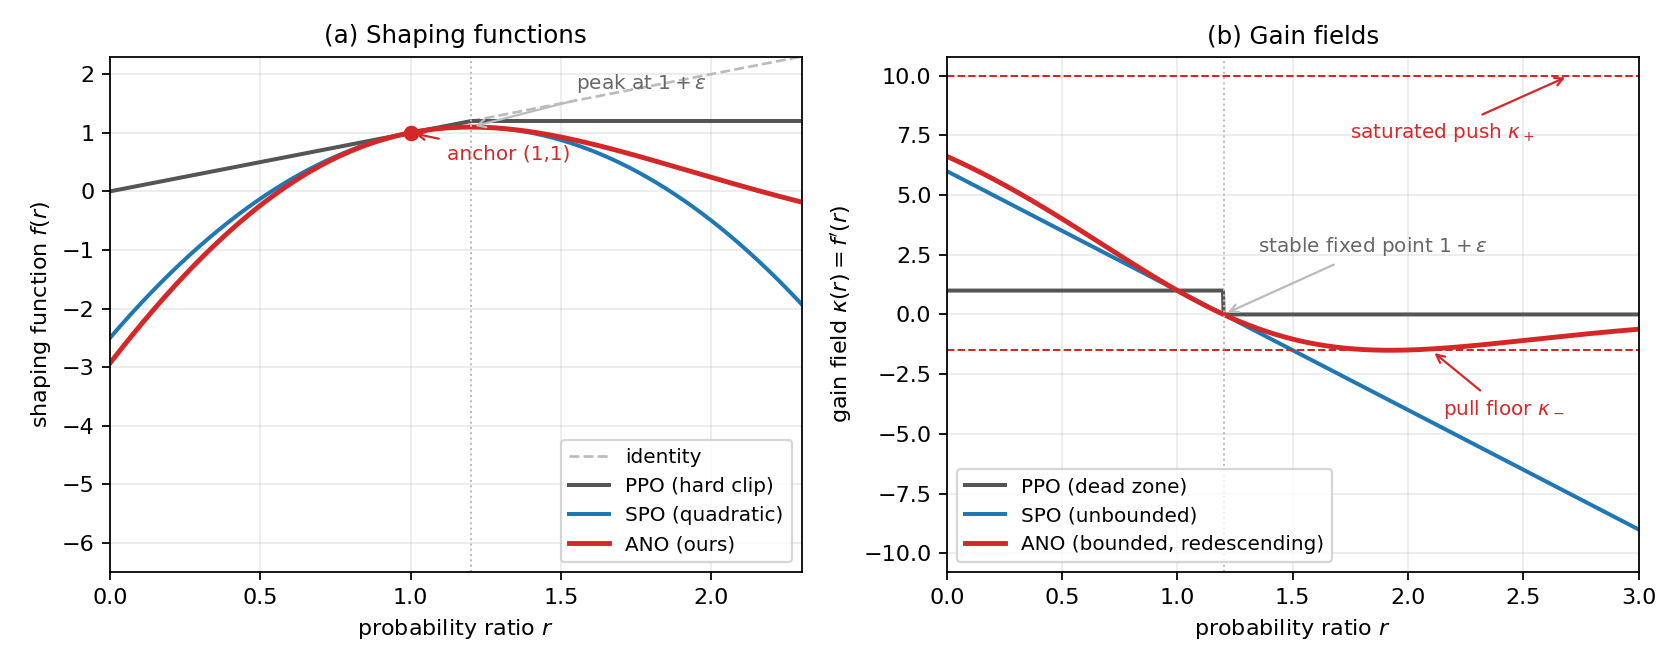
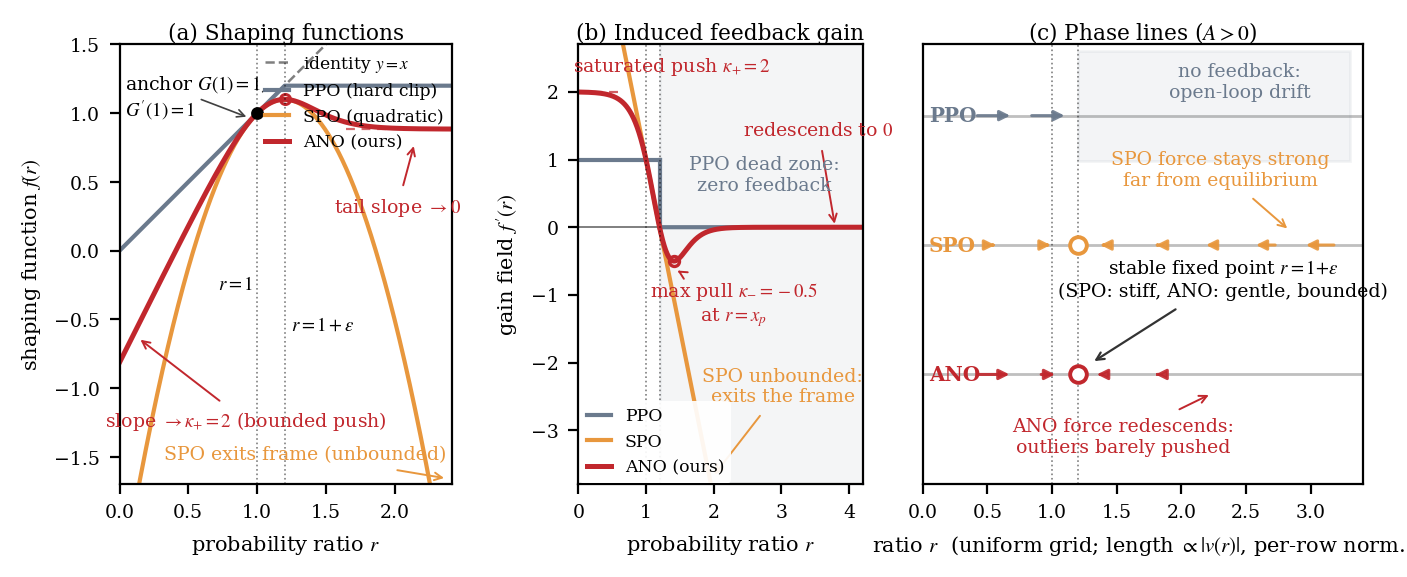
Redraw README figure in the paper's Figure 1 style
- 3-panel geometry/dynamics figure (shaping functions, induced feedback gain,
  phase lines) adapted from the paper's plotting code, display config
  (eps, kappa_plus, kappa_minus) = (0.2, 2, -0.5) as in the paper
- kernels imported from the shipped ano/g_shaping.py reference; regeneration
  doubles as a build-time sanity check (R1-R5 printed)

diff --git a/assets/plot_kernel.py b/assets/plot_kernel.py
@@ -1,7 +1,24 @@
-"""Generate the README figure: shaping functions and gain fields of
-PPO (hard clip), SPO (quadratic penalty), and ANO (this work).
+"""Generate the README figure: geometry and induced dynamics of the surrogate
+objectives (PPO hard clip, SPO quadratic penalty, ANO), matching Figure 1 of
+the paper.
 
-Runs against the reference kernel in ``ano/g_shaping.py``; reproduces with:
+The kernels are imported from the shipped reference implementation
+(``ano/g_shaping.py``); the two baseline shaping functions are one-liners.
+Every panel uses EQUAL x/y scaling (axes boxes sized manually so the data
+aspect matches exactly): slopes are visually honest -- the identity is a true
+45-degree reference and ANO is visibly tangent to it at r=1 in panel (a).
+
+Display config: (eps, kappa_plus, kappa_minus) = (0.2, 2, -0.5) -- the same
+display config as the paper's Figure 1 (a real grid point), chosen over the
+paper-recommended (0.2, 10, -1.5) because the gentler slopes keep the GLOBAL
+shape of all three objectives inside one window.
+
+  (a) Shaping functions, r in [0, 2.42], y in [-1.7, 1.5]: ANO's full S-shape.
+  (b) Gain fields, r in [0, 4.2], y in [-3.8, 2.7]: bounded vs unbounded.
+  (c) Ratio-space phase lines (A > 0): arrow direction = sign of the induced
+      velocity, length proportional to |v(r)| (per-row normalized).
+
+Reproduce with:
 
     python assets/plot_kernel.py
 """
@@ -9,83 +26,236 @@ Runs against the reference kernel in ``ano/g_shaping.py``; reproduces with:
 import pathlib
 import sys
 
+import matplotlib
+
+matplotlib.use("Agg")
 import matplotlib.pyplot as plt
 import numpy as np
 
 sys.path.insert(0, str(pathlib.Path(__file__).resolve().parent.parent))
-from ano.g_shaping import gain, solve_constants, shaping  # noqa: E402
+from ano.g_shaping import gain, shaping, solve_constants  # noqa: E402
 
-EPS = 0.2                    # trust-region boundary
-KAPPA_PLUS, KAPPA_MINUS = 10.0, -1.5   # paper-recommended knobs
+# ---------------- display config (paper Figure 1 display config) --------------
+EPS = 0.2
+KAPPA_PLUS, KAPPA_MINUS = 2.0, -0.5
+NU, A_, X0 = solve_constants(EPS, KAPPA_PLUS, KAPPA_MINUS)
 
-# --- competing shaping functions (paper Section 3.1) -------------------------
-def f_ppo(r):
-    return np.minimum(r, 1.0 + EPS)
+# ---------------- kernels (ANO from the shipped reference module) -------------
+def ano_Gp(x):
+    """G'(x), the gain field of the ANO shaping function."""
+    return gain(x, NU, A_, X0, KAPPA_PLUS)
 
-def f_spo(r):
-    return -(r - 1.0 - EPS) ** 2 / (2.0 * EPS) + EPS / 2.0 + 1.0
+def ano_G(x):
+    """G(x) with anchor G(1) = 1."""
+    return shaping(x, NU, A_, X0, KAPPA_PLUS)
 
-def kappa_ppo(r):
-    return np.where(r < 1.0 + EPS, 1.0, 0.0)
+def ano_G_inf():
+    """Horizontal asymptote G(+inf) (redescending tail); x=40 is far enough
+    that G' ~ 0 and small enough that exp() stays exact."""
+    return shaping(40.0, NU, A_, X0, KAPPA_PLUS)
 
-def kappa_spo(r):
-    return (1.0 + EPS - r) / EPS
+# ---------------- baselines ---------------------------------------------------
+def ppo_f(x, eps):
+    return np.minimum(x, 1.0 + eps)
 
-# --- ANO from the reference implementation -----------------------------------
-nu, a, x0 = solve_constants(EPS, KAPPA_PLUS, KAPPA_MINUS)
-f_ano = lambda r: shaping(r, nu, a, x0, KAPPA_PLUS)
-kappa_ano = lambda r: gain(r, nu, a, x0, KAPPA_PLUS)
+def ppo_fp(x, eps):
+    return (x < 1.0 + eps).astype(float)
 
-C_PPO, C_SPO, C_ANO, C_ID = "#555555", "#1f77b4", "#d62728", "#bbbbbb"
+def spo_f(x, eps):
+    return -(x - 1.0 - eps) ** 2 / (2.0 * eps) + eps / 2.0 + 1.0
 
-fig, axes = plt.subplots(1, 2, figsize=(10.5, 4.2))
+def spo_fp(x, eps):
+    return (1.0 + eps - x) / eps
 
-# Panel (a): shaping functions
-r = np.linspace(0.0, 2.3, 1201)
+# ---------------- layout ------------------------------------------------------
+G_INF = ano_G_inf()
+G0 = ano_G(0.0)
+XP = X0 + np.log1p(np.sqrt(2 + 2 * NU)) / A_            # inflection point x_p
+GP_XP = gain(XP, NU, A_, X0, KAPPA_PLUS)                # = kappa_minus
+XMAX = 2.42              # (a): SPO exits the bottom edge here
+XMAX_BC = 4.2            # (b): full tail visible
+XMAX_C = 3.4             # (c): ANO arrows vanish by r~2, SPO saturates by r~2.2
+
+C_PPO, C_SPO, C_ANO = "#6b7a8d", "#e8973d", "#c1272d"
+
+plt.rcParams.update({
+    "font.family": "serif",
+    "font.size": 7.5,
+    "axes.linewidth": 0.8,
+    "mathtext.fontset": "stix",
+})
+
+# manual geometry: every axes box matches its data aspect exactly (equal scale)
+HBOX = 2.20                                            # axes height, inches
+W_A = HBOX * XMAX / 3.2                                # (a) 2.42 x 3.2
+W_B = HBOX * XMAX_BC / 6.5                             # (b) 4.2 x 6.5
+W_C = HBOX * XMAX_C / 3.4                              # (c) 3.4 x 3.4
+ML, GAP, YLAB, MR, MB, MT = 0.40, 0.30, 0.33, 0.06, 0.30, 0.20
+FIGW = ML + W_A + GAP + YLAB + W_B + GAP + W_C + MR
+FIGH = MB + HBOX + MT
+fig = plt.figure(figsize=(FIGW, FIGH))
+axes = [fig.add_axes([ML / FIGW, MB / FIGH, W_A / FIGW, HBOX / FIGH]),
+        fig.add_axes([(ML + W_A + GAP + YLAB) / FIGW, MB / FIGH, W_B / FIGW, HBOX / FIGH]),
+        fig.add_axes([(ML + W_A + GAP + YLAB + W_B + GAP) / FIGW, MB / FIGH,
+                      W_C / FIGW, HBOX / FIGH])]
+
+# ---- (a) shaping functions: EQUAL aspect, compact window --------------------
 ax = axes[0]
-ax.plot(r, r, "--", color=C_ID, lw=1.2, label="identity")
-ax.plot(r, f_ppo(r), color=C_PPO, lw=1.8, label="PPO (hard clip)")
-ax.plot(r, f_spo(r), color=C_SPO, lw=1.8, label="SPO (quadratic)")
-ax.plot(r, f_ano(r), color=C_ANO, lw=2.2, label="ANO (ours)")
-ax.plot([1.0], [1.0], "o", color=C_ANO, ms=6)
-ax.annotate("anchor (1,1)", xy=(1.0, 1.0), xytext=(1.12, 0.55),
-            arrowprops=dict(arrowstyle="->", color=C_ANO), fontsize=9, color=C_ANO)
-ax.axvline(1.0 + EPS, color=C_ID, lw=0.9, ls=":")
-ax.annotate(r"peak at $1+\epsilon$", xy=(1.0 + EPS, f_ano(1.0 + EPS)),
-            xytext=(1.55, 1.75), arrowprops=dict(arrowstyle="->", color=C_ID),
-            fontsize=9, color="#666666")
-ax.set_xlabel(r"probability ratio $r$")
-ax.set_ylabel(r"shaping function $f(r)$")
-ax.set_title("(a) Shaping functions", fontsize=11)
-ax.set_xlim(0, 2.3)
-ax.set_ylim(-6.5, 2.3)
-ax.legend(loc="lower right", fontsize=9)
-ax.grid(alpha=0.25)
+ax.set_aspect("equal")
+x = np.linspace(0.0, XMAX, 3000)
+ax.plot(x, x, "k--", lw=0.9, alpha=0.5, label=r"identity $y=x$")
+ax.plot(x, ppo_f(x, EPS), color=C_PPO, lw=1.5, label=r"PPO (hard clip)")
+ax.plot(x, spo_f(x, EPS), color=C_SPO, lw=1.5, label=r"SPO (quadratic)")
+ax.plot(x, ano_G(x), color=C_ANO, lw=1.8, label=r"ANO (ours)")
+# ANO right-tail asymptote (slope -> 0), drawn dashed
+ax.plot([1.65, XMAX], [G_INF, G_INF], color=C_ANO, lw=0.8, ls=(0, (4, 3)), alpha=0.7)
+ax.annotate(r"tail slope $\to 0$", xy=(2.15, 0.80),
+            xytext=(2.02, 0.28), fontsize=6.8, color=C_ANO, ha="center",
+            arrowprops=dict(arrowstyle="->", color=C_ANO, lw=0.7))
+# ANO left tail: bounded slope kappa_plus
+ax.annotate(r"slope $\to \kappa_{+}{=}2$ (bounded push)",
+            xy=(0.12, ano_G(0.12) - 0.05), xytext=(0.92, -1.28),
+            fontsize=6.8, color=C_ANO, ha="center",
+            arrowprops=dict(arrowstyle="->", color=C_ANO, lw=0.7))
+# tangency + peak markers
+ax.plot([1.0], [1.0], marker="o", ms=3.6, color="k", mec="k")
+ax.annotate("anchor $G(1){=}1$,\n$G'(1){=}1$", xy=(0.96, 0.96), xytext=(0.04, 0.98),
+            fontsize=6.8, ha="left", arrowprops=dict(arrowstyle="->", lw=0.6, color="0.25"))
+G_PEAK = ano_G(X0)
+ax.plot([X0], [G_PEAK], marker="o", ms=3.6, mfc="none", mec=C_ANO, mew=1.1)
+# SPO enters from below the left edge and exits through the bottom (unbounded)
+ax.annotate("SPO exits frame (unbounded)", xy=(2.40, -1.66),
+            xytext=(1.35, -1.52), fontsize=6.8, color=C_SPO, ha="center",
+            arrowprops=dict(arrowstyle="->", color=C_SPO, lw=0.7))
+ax.axvline(1.0, color="k", lw=0.6, ls=":", alpha=0.5)
+ax.axvline(1.0 + EPS, color="k", lw=0.6, ls=":", alpha=0.5)
+ax.annotate(r"$r=1$", xy=(0.97, -0.28), ha="right", fontsize=6.8)
+ax.annotate(r"$r=1+\epsilon$", xy=(1.25, -0.58), ha="left", fontsize=6.8)
+ax.set_xlim(0, XMAX)
+ax.set_ylim(-1.7, 1.5)
+ax.set_xlabel(r"probability ratio $r$", fontsize=7.5)
+ax.set_ylabel(r"shaping function $f(r)$", fontsize=7.5)
+ax.set_title("(a) Shaping functions", fontsize=7.8, pad=1.5)
+ax.tick_params(labelsize=6.8)
+ax.legend(fontsize=6.2, loc="upper right", frameon=False, framealpha=0.9,
+          handlelength=1.4, borderaxespad=0.1)
 
-# Panel (b): gain fields
-r = np.linspace(0.0, 3.0, 1201)
+# ---- (b) gain fields: bounded vs unbounded ----------------------------------
 ax = axes[1]
-ax.plot(r, kappa_ppo(r), color=C_PPO, lw=1.8, label="PPO (dead zone)")
-ax.plot(r, kappa_spo(r), color=C_SPO, lw=1.8, label="SPO (unbounded)")
-ax.plot(r, kappa_ano(r), color=C_ANO, lw=2.2, label="ANO (bounded, redescending)")
-ax.axhline(KAPPA_PLUS, color=C_ANO, lw=0.9, ls="--")
-ax.axhline(KAPPA_MINUS, color=C_ANO, lw=0.9, ls="--")
-ax.annotate(r"saturated push $\kappa_+$", xy=(2.7, KAPPA_PLUS), xytext=(1.75, 7.4),
-            arrowprops=dict(arrowstyle="->", color=C_ANO), fontsize=9, color=C_ANO)
-ax.annotate(r"pull floor $\kappa_-$", xy=(2.1, KAPPA_MINUS), xytext=(2.15, -4.2),
-            arrowprops=dict(arrowstyle="->", color=C_ANO), fontsize=9, color=C_ANO)
-ax.axvline(1.0 + EPS, color=C_ID, lw=0.9, ls=":")
-ax.annotate(r"stable fixed point $1+\epsilon$", xy=(1.0 + EPS, 0.0), xytext=(1.35, 2.6),
-            arrowprops=dict(arrowstyle="->", color=C_ID), fontsize=9, color="#666666")
-ax.set_xlabel(r"probability ratio $r$")
-ax.set_ylabel(r"gain field $\kappa(r) = f'(r)$")
-ax.set_title("(b) Gain fields", fontsize=11)
-ax.set_xlim(0, 3.0)
-ax.set_ylim(-10.8, 10.8)
-ax.legend(loc="lower left", fontsize=9)
-ax.grid(alpha=0.25)
+ax.set_aspect("equal")
+x = np.linspace(0.0, XMAX_BC, 4000)
+ax.axhline(0, color="k", lw=0.7, alpha=0.5)
+# PPO: draw the actual discontinuity (drop at the boundary)
+ax.plot([0, 1.0 + EPS], [1, 1], color=C_PPO, lw=1.5, label="PPO")
+ax.plot([1.0 + EPS, 1.0 + EPS], [1, 0], color=C_PPO, lw=1.5)
+ax.plot(x[x >= 1.0 + EPS], ppo_fp(x[x >= 1.0 + EPS], EPS), color=C_PPO, lw=1.5)
+ax.plot(x, spo_fp(x, EPS), color=C_SPO, lw=1.5, label="SPO")
+ax.plot(x, ano_Gp(x), color=C_ANO, lw=1.8, label="ANO (ours)")
+# saturated push asymptote kappa_plus (ANO approaches it as r -> 0)
+ax.plot([0.0, 0.6], [KAPPA_PLUS, KAPPA_PLUS], color=C_ANO, lw=0.8, ls=(0, (4, 3)), alpha=0.75)
+ax.annotate(r"saturated push $\kappa_{+}{=}2$", xy=(1.38, 2.30), fontsize=6.8, color=C_ANO,
+            ha="center")
+# pull minimum marker (x_p, kappa_minus)
+ax.plot([XP], [GP_XP], marker="o", ms=3.6, mfc="none", mec=C_ANO, mew=1.2)
+ax.annotate(r"max pull $\kappa_{-}{=}-0.5$" "\n" r"at $r{=}x_p$", xy=(XP + 0.05, GP_XP - 0.14),
+            xytext=(2.30, -1.38), fontsize=6.8, color=C_ANO, ha="center",
+            arrowprops=dict(arrowstyle="->", color=C_ANO, lw=0.7))
+# redescending tail annotation
+ax.annotate(r"redescends to $0$", xy=(3.80, -0.03),
+            xytext=(3.55, 1.35), fontsize=6.8, color=C_ANO, ha="center",
+            arrowprops=dict(arrowstyle="->", color=C_ANO, lw=0.7))
+# dead-zone shading for PPO
+ax.axvspan(1.0 + EPS, XMAX_BC, color=C_PPO, alpha=0.07)
+ax.annotate("PPO dead zone:\nzero feedback", xy=(2.75, 0.55), fontsize=6.8,
+            color=C_PPO, ha="center")
+ax.annotate("SPO unbounded:\nexits the frame", xy=(1.96, -3.72),
+            xytext=(3.02, -2.58), fontsize=6.8, color=C_SPO, ha="center",
+            arrowprops=dict(arrowstyle="->", color=C_SPO, lw=0.7))
+ax.axvline(1.0, color="k", lw=0.6, ls=":", alpha=0.5)
+ax.axvline(1.0 + EPS, color="k", lw=0.6, ls=":", alpha=0.5)
+ax.set_xlim(0, XMAX_BC)
+ax.set_ylim(-3.8, 2.7)
+ax.set_xlabel(r"probability ratio $r$", fontsize=7.5)
+ax.set_ylabel(r"gain field $f'(r)$", fontsize=7.5)
+ax.set_title("(b) Induced feedback gain", fontsize=7.8, pad=1.5)
+ax.tick_params(labelsize=6.8)
+ax.legend(fontsize=6.2, loc="lower left", frameon=True, framealpha=0.92,
+          edgecolor="none", facecolor="white", handlelength=1.4,
+          borderaxespad=0.1)
 
-fig.tight_layout()
+# ---- (c) ratio-space phase lines (A > 0) ------------------------------------
+ax = axes[2]
+ax.set_aspect("equal")
+rows = [("PPO", C_PPO, 2.0, lambda t: ppo_fp(t, EPS)),
+        ("SPO", C_SPO, 1.0, lambda t: spo_fp(t, EPS)),
+        ("ANO", C_ANO, 0.0, ano_Gp)]
+R0, R1 = 0.25, XMAX_C - 0.1
+DELTA = 0.17          # max arrow half-length in r units (per-row normalized);
+                      # 2*DELTA = 0.34 < grid spacing 0.42, so arrows never fuse
+BOUND = 1.0 + EPS     # trust-region boundary: PPO force stops here
+# strictly uniform r grid, identical on every row: cross-row length comparison.
+# grid starts right of the row labels so arrows never touch "PPO"/"SPO"/"ANO"
+ARROW_XS = [0.55, 0.97, 1.39, 1.81, 2.23, 2.65, 3.07]
+for name, color, y, vfun in rows:
+    xs = np.linspace(R0, R1, 6000)
+    vs = vfun(xs)
+    vmax = np.abs(vs).max()
+    ax.axhline(y, color="0.75", lw=1.0, zorder=1)
+    ax.annotate(name, xy=(0.05, y), fontsize=7.2, color=color, va="center",
+                ha="left", fontweight="bold")
+    # skip near-zero velocity (no force there); PPO arrows are clipped so that
+    # NONE of them crosses into the dead zone
+    for x0_ in ARROW_XS:
+        v = vfun(np.array([x0_]))[0]
+        if abs(v) < 0.03 * vmax:
+            continue
+        dx = DELTA * v / vmax
+        x_start, x_end = x0_ - dx, x0_ + dx
+        if x_end > BOUND and v > 0 and name == "PPO":
+            x_end = BOUND - 0.02
+            if x_end <= x_start:
+                continue
+        ax.annotate("", xy=(x_end, y), xytext=(x_start, y),
+                    arrowprops=dict(arrowstyle="-|>", color=color, lw=1.1,
+                                    alpha=0.9, mutation_scale=7.5), zorder=3)
+# PPO dead-zone highlight
+ax.axvspan(BOUND, R1, ymin=0.735, ymax=0.985, color=C_PPO, alpha=0.08)
+ax.annotate("no feedback:\nopen-loop drift", xy=(2.45, 2.26), fontsize=6.8,
+            color=C_PPO, ha="center", va="center")
+# fixed points for SPO & ANO at r = 1 + eps
+for _, color, y, _ in rows[1:]:
+    ax.plot([BOUND], [y], marker="o", ms=6, mfc="white", mec=color, mew=1.4,
+            zorder=4)
+ax.annotate("stable fixed point $r{=}1{+}\\epsilon$" "\n"
+            r"(SPO: stiff, ANO: gentle, bounded)",
+            xy=(1.29, 0.08), xytext=(2.32, 0.60), fontsize=6.8, ha="center",
+            arrowprops=dict(arrowstyle="->", lw=0.8, color="0.2"))
+ax.annotate("ANO force redescends:\noutliers barely pushed", xy=(2.25, -0.14),
+            xytext=(1.55, -0.60), fontsize=6.8, color=C_ANO, ha="center",
+            arrowprops=dict(arrowstyle="->", color=C_ANO, lw=0.7))
+ax.annotate("SPO force stays strong\nfar from equilibrium", xy=(2.85, 1.10),
+            xytext=(2.30, 1.46), fontsize=6.8, color=C_SPO, ha="center",
+            arrowprops=dict(arrowstyle="->", color=C_SPO, lw=0.7))
+ax.axvline(1.0, color="k", lw=0.6, ls=":", alpha=0.5)
+ax.axvline(BOUND, color="k", lw=0.6, ls=":", alpha=0.5)
+ax.set_xlim(0, XMAX_C)
+ax.set_ylim(-0.85, 2.55)
+ax.set_yticks([])
+ax.set_xlabel(r"ratio $r$  (uniform grid; length $\propto|v(r)|$, per-row norm.)",
+              fontsize=7.5)
+ax.set_title(r"(c) Phase lines ($A>0$)", fontsize=7.8, pad=1.5)
+ax.tick_params(labelsize=6.8)
+
 out = pathlib.Path(__file__).resolve().parent / "shaping_kernel.png"
-fig.savefig(out, dpi=160)
+fig.savefig(out, dpi=200, bbox_inches="tight")
 print(f"written: {out}")
+
+# sanity checks on the shipped kernel (run every time the figure regenerates)
+print(f"nu={NU:.6f} a={A_:.6f} x0={X0:.3f}")
+print(f"G(1)={ano_G(1.0):.6f}  G'(1)={ano_Gp(1.0):.6f}")
+print(f"G'(1+eps)={ano_Gp(1.0 + EPS):.2e}")
+print(f"G(0)={G0:.4f}  G(inf)={G_INF:.4f}  x_p={XP:.4f}  G'(x_p)={GP_XP:.4f}")
+xx = np.linspace(-5, 8, 200001)
+gg = ano_Gp(xx)
+print(f"min G' = {gg.min():.6f} (target {KAPPA_MINUS}), "
+      f"G'(-5)={gg[0]:.4f} (target {KAPPA_PLUS}),  G'(8)={gg[-1]:.2e}")

diff --git a/README.md b/README.md
@@ -26,9 +26,9 @@ The gain field is a difference of two logistic sigmoids:
 G'(x) = κ₊ · ν · (1 − E) / [ (1 + E)(E + ν) ],   E = e^{a(x − x₀)},  x₀ = 1 + ε
 ```
 
-<p align="center"><img src="assets/shaping_kernel.png" width="880" alt="Shaping functions and gain fields of PPO, SPO, and ANO"></p>
+<p align="center"><img src="assets/shaping_kernel.png" width="880" alt="Geometry and induced dynamics of PPO, SPO, and ANO surrogate objectives"></p>
 
-*(a) Shaping functions and (b) gain fields (display config ε = 0.2, κ₊ = 10, κ₋ = −1.5): PPO's hard clip creates a zero-gain dead zone beyond 1 + ε; SPO's quadratic penalty yields an unbounded, linearly growing gain; ANO's gain is bounded, redescends to its pull floor κ₋ at r = x_p, and decays to zero for extreme outliers. Figure generated from `ano/g_shaping.py` via `python assets/plot_kernel.py`.*
+*Geometry and induced dynamics of the surrogate objectives (display config ε = 0.2, κ₊ = 2, κ₋ = −0.5, same display config as the paper's Figure 1): **(a)** shaping functions — PPO kinks flat (hard clip), SPO is unbounded (quadratic), ANO is tangent to the identity at (1, 1) with a bounded-slope left tail (→ κ₊), a peak at 1 + ε, and a right tail flattening to slope 0; **(b)** induced feedback gain κ(r) = f′(r) — PPO's dead zone beyond 1 + ε, SPO's unbounded linear gain, ANO's bounded gain with saturated push κ₊, pull floor κ₋ at r = x_p, and redescendence to 0; **(c)** ratio-space phase lines for A > 0 — PPO's flow stalls at the boundary (open-loop drift), SPO's restoring force stays strong far from equilibrium, ANO's weakens past the stable fixed point 1 + ε. Generated from `ano/g_shaping.py` via `python assets/plot_kernel.py`.*
 
 | Knob | Meaning | Paper default |
 | :--- | :--- | :--- |
